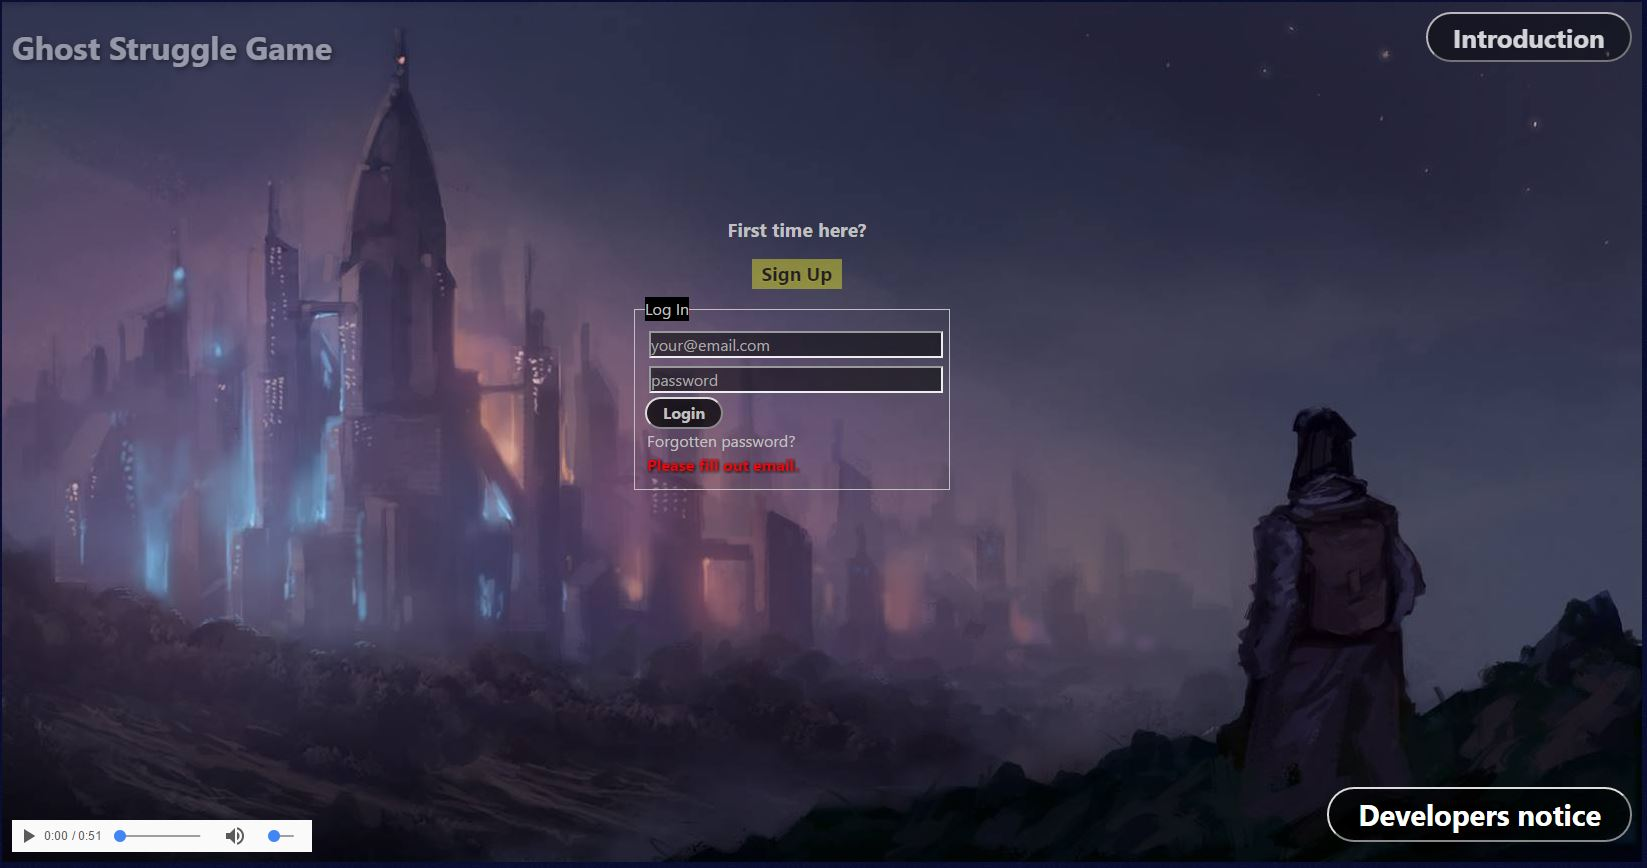
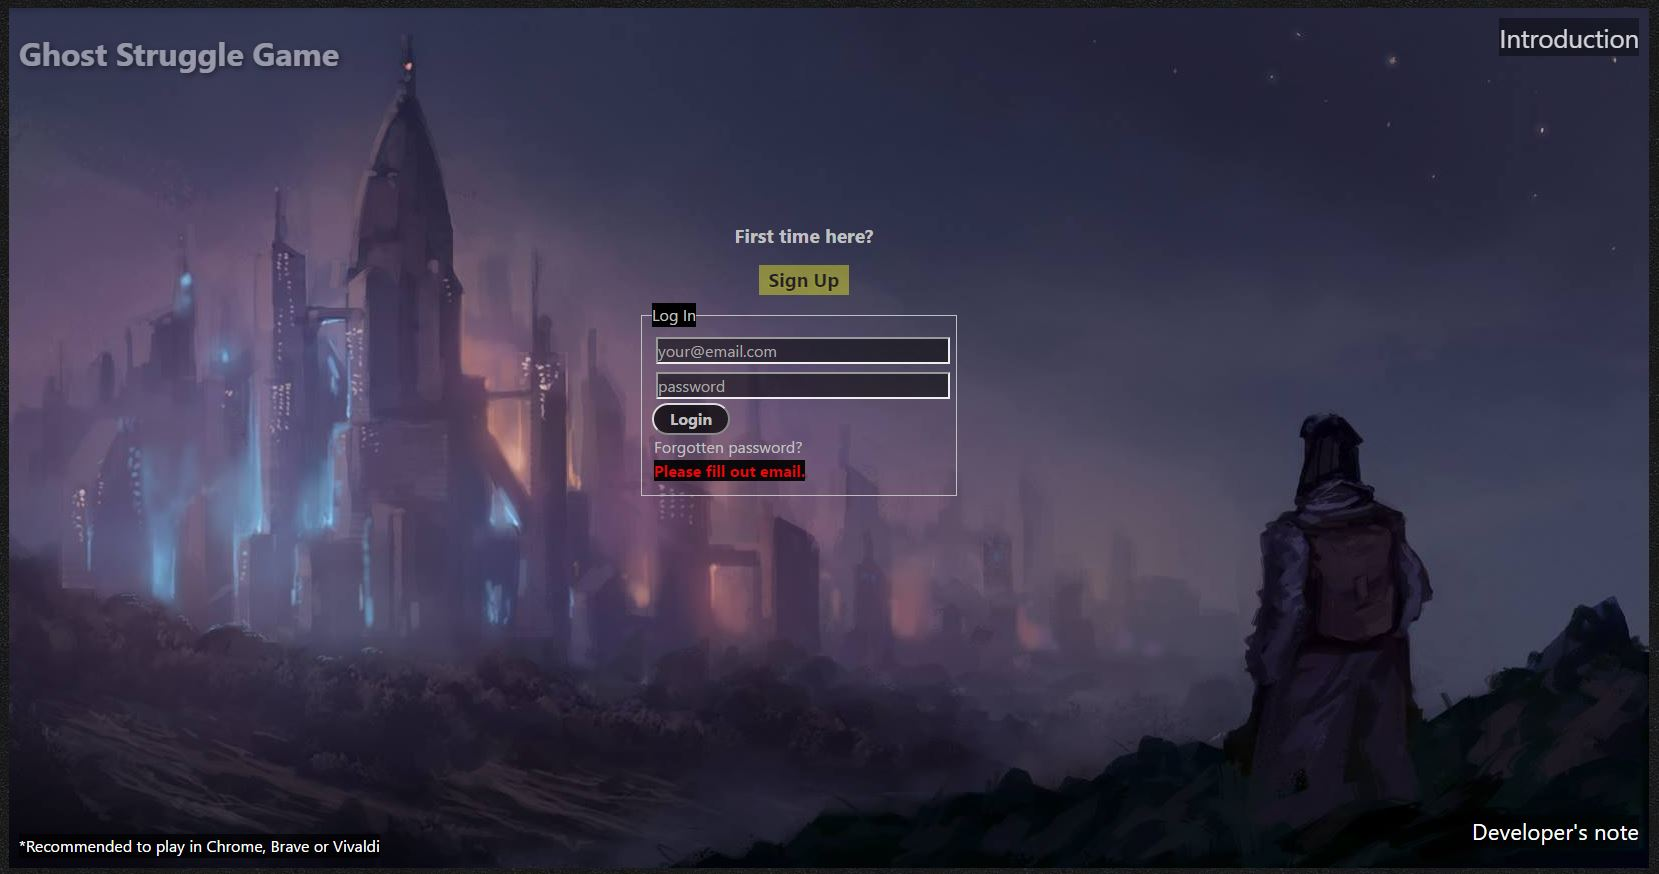
production concerns, patreon presentation pics updated

diff --git a/src/client/dashboard/dashboard.screen.react.js b/src/client/dashboard/dashboard.screen.react.js
@@ -10,18 +10,15 @@ import {msg} from '../intl/store';
 
 import badEndsCheck from '../lib/bml/badendscheck';
 
-// import CampaignIntro from '../tutorial/campaign.intro.react';
+// import StrategicalIntro from './strategical.intro.react';
 import DashboardContent from './dashboard.content.react';
 import EndGameWindow from './endgame/endgame.window.react';
+import LanguageSelect from '../app/language.select.react';
 import OperationsUpgradeDialog from './playerswindow/operations.upgrade.dialog.react';
 import PlayerCampaignChoose from '../tutorial/choose.campaign.react';
 import ScreenHelp from '../tutorial/screen.help.react';
 import ScreenPlastic from '../tutorial/screen.plastic.react';
-// import StrategicalIntro from './strategical.intro.react';
 import TrainingUpgradeDialog from './playerswindow/training.upgrade.dialog.react';
-
-// buttons, selects
-import LanguageSelect from '../app/language.select.react';
 
 class DashboardScreen extends Component {
   componentDidMount() {
@@ -60,9 +57,9 @@ class DashboardScreen extends Component {
 
     return (
       <div id='DashboardScreen'>
-        <div
+        {<div
           id='DashboardScreenLabel'
-          >{`${msg('dashboard.screen.label.' + dashPointer)} ` + orgname}</div>
+          >{`${msg('dashboard.screen.label.' + dashPointer)} ` + orgname}</div>}
         <DashboardContent
           contest={contest}
           game={game}
@@ -93,15 +90,6 @@ class DashboardScreen extends Component {
             campaigns={jsonapi.getIn(['campaigns', 'campaigns'])}
             paying={jsonapi.get('paying')}
             />}
-        {/*(jsonapi.getIn(['campaigns', 'campaigns']) && (typeof jsonapi.getIn(['campaigns', 'campaigns']).toJS()) === 'object') &&
-          Object.keys(jsonapi.getIn(['campaigns', 'campaigns']).toJS()).map(campaign => {
-            if (!jsonapi.getIn(['campaigns', 'campaigns', campaign, 'intro', 'viewed']) && jsonapi.getIn(['campaigns', 'campaigns', campaign, 'selected']))
-              return (
-                <CampaignIntro
-                  campaign={jsonapi.getIn(['campaigns', 'campaigns', campaign])}
-                  />
-              );
-          })*/}
         {/*!jsonapi.get('dashboard').getIn(['strategical', 'intro']) && <StrategicalIntro jsonapi={jsonapi}/>*/}
         {/* end of start game */}
         {dashPointer === 'options' && <LanguageSelect i18n={i18n}/>}

diff --git a/src/client/local/en/developers.msg.js b/src/client/local/en/developers.msg.js
@@ -1,36 +1,26 @@
 const developerMsg = {
   button: `Ok, I have read the notice`,
   notice: `
-    <h2>Ghost Struggle pre-production</h2>
+    <h2>Ghost Struggle production</h2>
     <p>
-      This game is still before production.
-      You can play it, as most of the game mechanisms are in place,
-      but there may be some unexpected behavior.
+      As the development of GS is on ongoing basis, I declare 27th September of 2016 the day that it went to production.
+      You can play it and expect good performance, free of gamecrashing bugs.
+      As such it maybe now bought in the options by selecting paying status.
     </p>
     <p>
-      <h2>Game Ends</h2>
-      <ul>Bad Ends:
-        <li>Given Up</li>
-        <li>Left in Prison</li>
-        <li>Killed</li>
-        <li>Not so secret now, huh?</li>
-        <li>Rich, But Not For Long</li>
-      </ul>
-      <ul>Good Ends:
-        <li>Rich and Covered</li>
-      </ul>
+      The game now has 5 bad ends and 1 good end. Ingame walkthrough is being made. Ultimately the ends are giving a
+      meaning to the game but the important thing is the experience you have while playing it.
     </p>
     <h3>Disclaimer</h3>
     <p>
       All graphic assets are original, but may be based on actually existing people or movie/game characters.
     </p>
     <p>
-      You may (not yet) buy full access to the game in the options menu, when logged in (including campaigns).
+      You may buy full access to the game in the options menu, when logged in (not including two planned campaigns).
     </p>
     <p>
       <em>
-        Fair Warning: Game might include some depictions and hints of violence
-        and suggestive scenes, so if that is something you are offended by then do not play it.
+        Fair Warning: Game might include some depictions and hints of violence and suggestive scenes.
       </em>
     </p>
   `

diff --git a/src/client/local/en/about.msg.js b/src/client/local/en/about.msg.js
@@ -11,21 +11,21 @@ const aboutMsg = {
     </p>
     <p>
       Missions completion is represented as tried and tested dice and cards
-      mechanism, where chance and skill of the agents play significant role.
-      Equipments system gives you chance to directly influence the outcomes.
+      mechanism, where chance and skills of the agents play deciding role.
+      Equipments system gives you chance to tactically manage the outcomes.
     </p>
     <p>
       Since doing espionage is tricky and dangerous, game captures that fact and
-      tracks how steathy you are in your actions, possibly leading to some bad ends
+      tracks how stealthy you are in your actions, possibly leading to some bad ends
       if you fail to deliver results quietly.
     </p>
     <p>
-      Multiplayer is coming soon, when it is done, players are going to have
-      competitive interactions among them.
+      Multiplayer is work in progress with some basic funtionality coming soon.
+      When it is done, players are going to have competitive interactions among them.
     </p>
     <p>
-      Feel free to sign up and try game in its current yet unfinished state, and
-      leave a feedback through email message to support@ghoststruggle.com.
+      Sign up and play game it is complete and as it is a web application, adding new features
+      and tuning out existing ones is every day business.
     </p>`,
   title: `About the game`
 };

diff --git a/src/client/pages/login.react.js b/src/client/pages/login.react.js
@@ -25,12 +25,12 @@ class Login extends Component {
     return (
       <DocumentTitle title={msg('auth.title')}>
         <div className="login-page">
-          <button
+          <div
             id='LoginToIntro'
-            onClick={(e) => componentsActions.introductionWindowToggle()}>Introduction</button>
+            onClick={(e) => componentsActions.introductionWindowToggle()}>Introduction</div>
           <GSSigil />
           {/*<BackgroundMusic />*/}
-          {<div className='recommended-browsers'>*Recommended to play in Chrome, Brave or Vivaldi</div>}
+          {<div className='recommended-browsers'>*Recommended to play in Chrome, Brave or Vivaldi browsers</div>}
           {(!signupToggle && !introWindowToggle && !devNoticeToggle) &&
             <LoginMessage />}
           {(!signupToggle && !introWindowToggle && !devNoticeToggle) &&
@@ -39,9 +39,9 @@ class Login extends Component {
             <SignupMessage />}
           {(signupToggle && !devNoticeToggle && !introWindowToggle) &&
             <SignupForm {...this.props} />}
-          <button
+          <div
             id='LoginDevNoticeButton'
-            onClick={(e) => componentsActions.devNoticeToggle()}>Developers notice</button>
+            onClick={(e) => componentsActions.devNoticeToggle()}>{`Developer's note`}</div>
           {false &&
             <button
               id='LoginBigScreenButton'

diff --git a/src/server/lib/greyzone/missions/default/agent.in.trouble.js b/src/server/lib/greyzone/missions/default/agent.in.trouble.js
@@ -15,8 +15,8 @@ let AgentInTrouble = [{
   ],
   // inCountry: '',
   rewards: {
-    agentRecruited: true,
-    gameCash: -2000
+    gameCash: -2000,
+    agentRecruited: true
   },
   losses: {
     gameCash: 1000,
@@ -37,8 +37,8 @@ let AgentInTrouble = [{
   ],
   inCountry: '',
   rewards: {
-    agentRecruited: true,
-    gameCash: -4000
+    gameCash: -4000,
+    agentRecruited: true
   },
   losses: {
     gameContacts: 50,
@@ -59,12 +59,12 @@ let AgentInTrouble = [{
   ],
   inCountry: '',
   rewards: {
-    agentRecruited: true,
-    gameCash: -6000
+    gameCash: -6000,
+    agentRecruited: true
   },
   losses: {
-    gameContacts: 75,
-    gameCash: 3000
+    gameCash: 3000,
+    gameContacts: 75
   },
   imgsrc: imgsrc,
   sound: sound,
@@ -82,8 +82,8 @@ let AgentInTrouble = [{
   ],
   inCountry: '',
   rewards: {
-    agentRecruited: true,
-    gameCash: -50000
+    gameCash: -50000,
+    agentRecruited: true
   },
   losses: {
     gameContacts: 175,
@@ -105,8 +105,8 @@ let AgentInTrouble = [{
   ],
   inCountry: '',
   rewards: {
-    agentRecruited: true,
-    gameCash: -100000
+    gameCash: -100000,
+    agentRecruited: true
   },
   losses: {
     gameContacts: 375,

diff --git a/src/client/dashboard/optionswindow/paying.window.react.js b/src/client/dashboard/optionswindow/paying.window.react.js
@@ -16,10 +16,10 @@ class PayingWindow extends Component {
     const revenge = paying ? paying.get('revenge') : false;
     return (
       <div id='PayingWindow'>
-        <legend>Paying Status (Going live)</legend>
+        <legend>{`Paying Status - ${window.location.href === 'http://localhost:8000/' ? 'Sandbox' : 'Live'}`}</legend>
         <label><input checked={base} name='base' onChange={(e) => this.changePaying('base', base)} type='checkbox' /><span>Base</span></label>
-        <label><input checked={collector} name='collector' onChange={(e) => this.changePaying('collector', collector)} type='checkbox' /><span>Collector</span></label>
-        <label><input checked={revenge} name='revenge' onChange={(e) => this.changePaying('revenge', revenge)} type='checkbox' /><span>Revenge</span></label>
+        <label><input checked={collector} disabled={true} name='collector' onChange={(e) => this.changePaying('collector', collector)} type='checkbox' /><span>Collector</span></label>
+        <label><input checked={revenge} disabled={true} name='revenge' onChange={(e) => this.changePaying('revenge', revenge)} type='checkbox' /><span>Revenge</span></label>
       </div>
     );
   }

diff --git a/src/client/selling/sales.pitch.react.js b/src/client/selling/sales.pitch.react.js
@@ -11,7 +11,7 @@ class SalesPitch extends Component {
         What do I get when I buy the game?
         <li>Unlimited access to tier 3 equipment - Protective Gear(operative), WPAS(technician), DCP(spy)</li>
         <li>A powerful tool to calculate dicethrow success rate.</li>
-        <li>Access to special mission, if your agent is a spy.</li>
+        <li>Access to special mission, if your agent is a spy(not implemented yet, just a stub).</li>
         <li>More content(special missions, special agents, equipments, ends) with the updates.</li>
         <li>Your support will enable me to drive the game toward its full potential.</li>
       </div>

diff --git a/src/client/tutorial/actions.js b/src/client/tutorial/actions.js
@@ -7,10 +7,6 @@ import announce from '../lib/announce';
 import FirstMission from '../../server/lib/greyzone/missions/tutorial/first.mission';
 import Agent from '../../server/lib/greyzone/agents.generator';
 
-export function campaignIntroViewed(campaignname) {
-  dispatch(campaignIntroViewed, {campaignname});
-}
-
 export function completeTutorial() {
   dispatch(completeTutorial, {});
 }
@@ -75,7 +71,6 @@ export function toggleCampaign(name, value) {
 }
 
 setToString('tutorial', {
-  campaignIntroViewed,
   completeTutorial,
   confirmAvatar,
   confirmCampaignsSelection,

diff --git a/src/client/tutorial/store.js b/src/client/tutorial/store.js
@@ -5,12 +5,6 @@ import immutable from 'immutable';
 
 export const dispatchToken = register(({action, data}) => {
 
-  if (action === tutorialActions.campaignIntroViewed)
-    jsonapiCursor(jsonapi => {
-      return jsonapi
-        .setIn(['campaigns', 'campaigns', data.campaignname, 'intro', 'viewed'], true);
-    });
-
   if (action === tutorialActions.completeTutorial)
     jsonapiCursor(jsonapi => {
       return jsonapi

diff --git a/src/client/briefing/quick.save.react.js b/src/client/briefing/quick.save.react.js
@@ -15,7 +15,7 @@ class QuickSave extends Component {
           briefingActions.flashBriefing(`Saved to savegame slot 1`);
         }}
         >
-        <div id='BriefingQuickSaveText'>Quicksave 1</div>
+        <div id='BriefingQuickSaveText'>Quicksave</div>
       </div>
     );
   }

diff --git a/src/client/dashboard/statuseswindow/statuses.window.react.js b/src/client/dashboard/statuseswindow/statuses.window.react.js
@@ -1,4 +1,4 @@
-import './statuses.window.styl'; //
+import './statuses.window.styl';
 import * as statusesActions from './actions';
 import Component from '../../components/component.react';
 import React from 'react';
